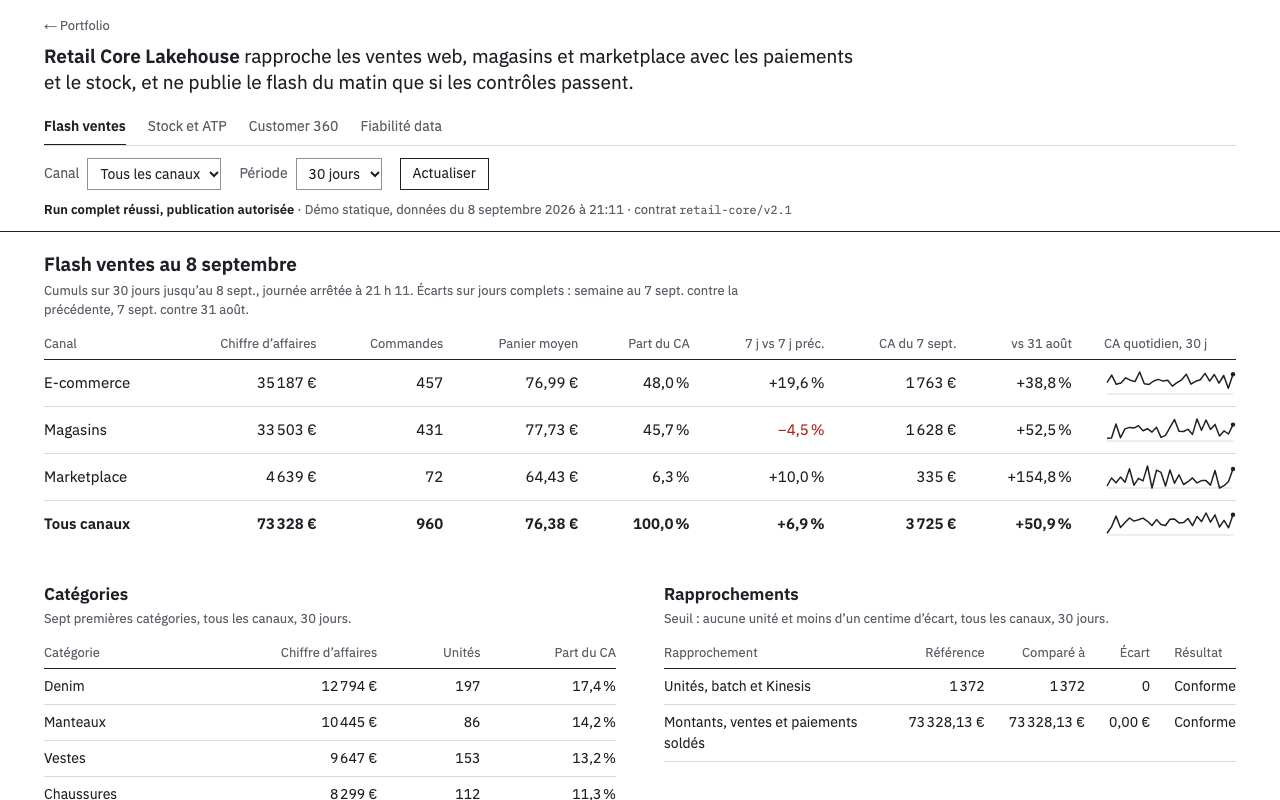
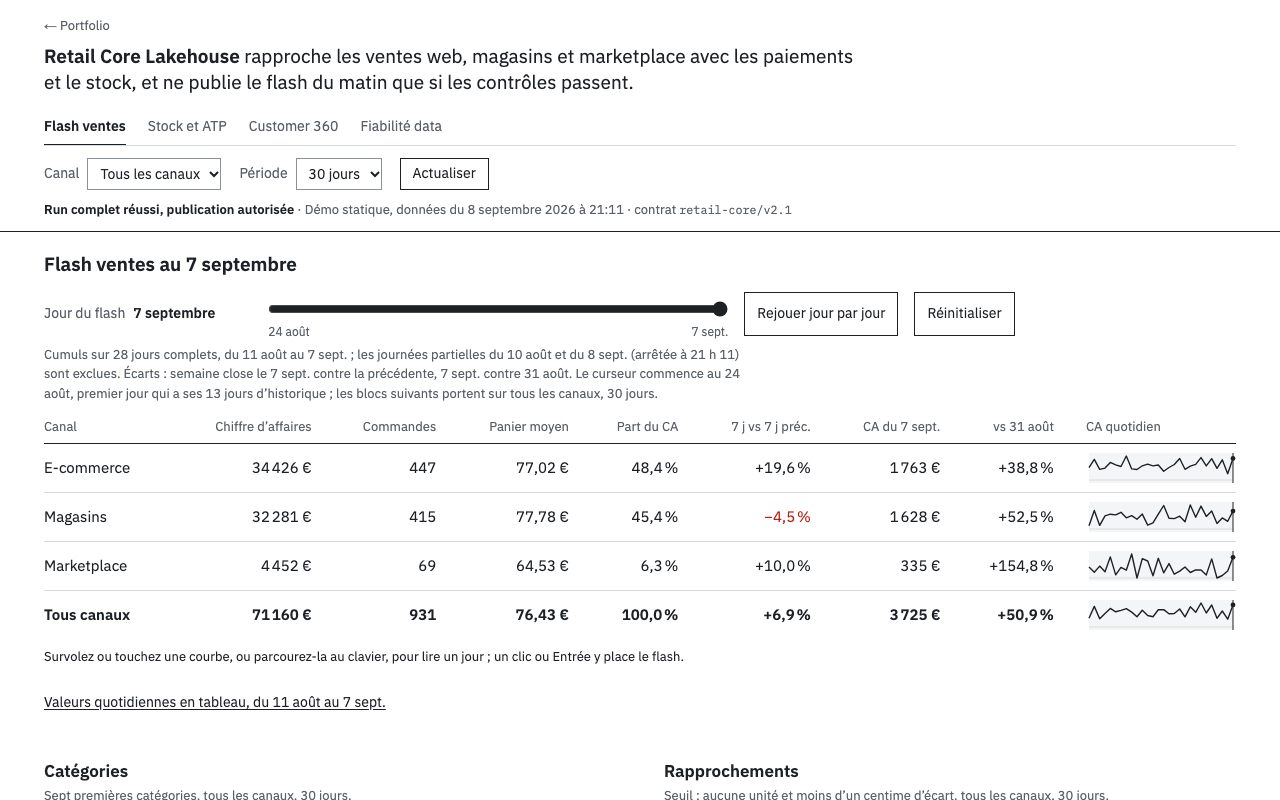
Décrire le curseur du flash et refaire la capture

diff --git a/README.md b/README.md
@@ -8,7 +8,7 @@ Démo statique : [ikel0.github.io/retail-core-lakehouse](https://ikel0.github.io
 
 ![Flash ventes du 8 septembre 2026 : tableau par canal avec chiffre d’affaires, commandes, panier moyen, écarts et courbe quotidienne, puis catégories et rapprochements](docs/demo.png)
 
-La capture montre le flash ventes sur 30 jours, tous canaux : 960 commandes et 73 328 € de chiffre d’affaires, avec pour chaque canal les écarts sur la dernière semaine complète et sur le même jour de la semaine précédente. Plus bas, les rapprochements sont sans écart (0 unité, 0,00 €). L’état du run en tête est calculé à partir des rapports, pas écrit en dur.
+La capture montre le flash au 7 septembre 2026, tous canaux : 71 160 € et 931 commandes sur les 28 jours complets de la série, avec pour chaque canal l’écart de la semaine close contre la précédente et du jour contre le même jour de la semaine précédente. Le curseur « Jour du flash » place le tableau sur n’importe quel jour du 24 août au 7 septembre (le premier qui a 13 jours d’historique) ; « Rejouer jour par jour » avance d’un jour toutes les 1,5 s, avec Pause et Réinitialiser. Ce recalcul est fait dans le navigateur par `dashboard/flash.js`, à partir des séries quotidiennes publiées, et testé par `node --test tests/flash.test.js`. L’état du run en tête est calculé à partir des rapports, pas écrit en dur.
 
 ## Ce que le projet résout
 
